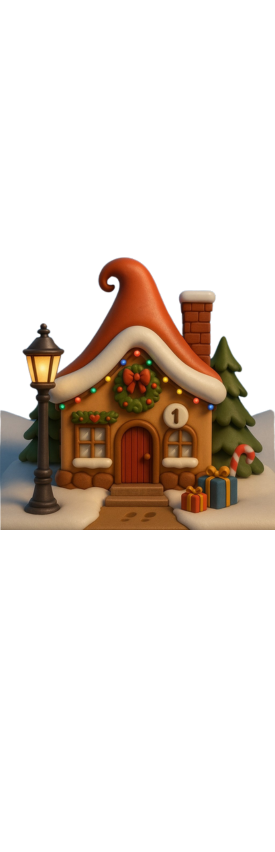
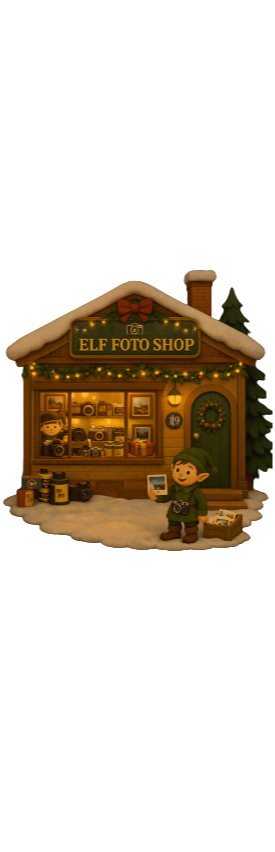
day20

Changed region(s): [[0.0, 0.2746, 1.0, 0.6714]]

diff --git a/tage/content/19.html b/tage/content/19.html
@@ -1,6 +1,149 @@
 <p class="question">
-  Im Tourismusbüro des Weihnachtsdorfes ging folgende Nachricht des Hackers ein.
+  Wichtelin Hermine war im Urlaub auf dem Weihnachtsmarkt und hat
+  mit ihrer Einwegkamera einige tolle Biilder gemacht.<br>
+  <strong>Wo ist Hermine im Urlaub gewesen?</strong>
 </p>
 
-<button class="solution-button" onclick="rightSolution(19)">Lösung!</button>
-<button class="solution-button" onclick="wrongSolution()">Keine Lösung!</button>
+<!-- THUMBNAILS GRID -->
+<div style="display:grid;grid-template-columns:repeat(auto-fit,minmax(90px,1fr));gap:10px;margin:12px 0 18px;">
+  <a href="#img01" style="display:block;border-radius:12px;overflow:hidden;background:rgba(255,255,255,.06);border:1px solid rgba(255,255,255,.14);box-shadow:0 6px 18px rgba(0,0,0,.18);text-decoration:none;">
+    <img src="../assets/day19/1.webp" alt="" style="width:100%;height:90px;object-fit:cover;display:block;">
+  </a>
+  <a href="#img02" style="display:block;border-radius:12px;overflow:hidden;background:rgba(255,255,255,.06);border:1px solid rgba(255,255,255,.14);box-shadow:0 6px 18px rgba(0,0,0,.18);text-decoration:none;">
+    <img src="../assets/day19/2.webp" alt="" style="width:100%;height:90px;object-fit:cover;display:block;">
+  </a>
+  <a href="#img03" style="display:block;border-radius:12px;overflow:hidden;background:rgba(255,255,255,.06);border:1px solid rgba(255,255,255,.14);box-shadow:0 6px 18px rgba(0,0,0,.18);text-decoration:none;">
+    <img src="../assets/day19/3.webp" alt="" style="width:100%;height:90px;object-fit:cover;display:block;">
+  </a>
+  <a href="#img04" style="display:block;border-radius:12px;overflow:hidden;background:rgba(255,255,255,.06);border:1px solid rgba(255,255,255,.14);box-shadow:0 6px 18px rgba(0,0,0,.18);text-decoration:none;">
+    <img src="../assets/day19/4.webp" alt="" style="width:100%;height:90px;object-fit:cover;display:block;">
+  </a>
+  <a href="#img05" style="display:block;border-radius:12px;overflow:hidden;background:rgba(255,255,255,.06);border:1px solid rgba(255,255,255,.14);box-shadow:0 6px 18px rgba(0,0,0,.18);text-decoration:none;">
+    <img src="../assets/day19/5.webp" alt="" style="width:100%;height:90px;object-fit:cover;display:block;">
+  </a>
+  <a href="#img06" style="display:block;border-radius:12px;overflow:hidden;background:rgba(255,255,255,.06);border:1px solid rgba(255,255,255,.14);box-shadow:0 6px 18px rgba(0,0,0,.18);text-decoration:none;">
+    <img src="../assets/day19/6.webp" alt="" style="width:100%;height:90px;object-fit:cover;display:block;">
+  </a>
+  <a href="#img07" style="display:block;border-radius:12px;overflow:hidden;background:rgba(255,255,255,.06);border:1px solid rgba(255,255,255,.14);box-shadow:0 6px 18px rgba(0,0,0,.18);text-decoration:none;">
+    <img src="../assets/day19/7.webp" alt="" style="width:100%;height:90px;object-fit:cover;display:block;">
+  </a>
+  <a href="#img08" style="display:block;border-radius:12px;overflow:hidden;background:rgba(255,255,255,.06);border:1px solid rgba(255,255,255,.14);box-shadow:0 6px 18px rgba(0,0,0,.18);text-decoration:none;">
+    <img src="../assets/day19/8.webp" alt="" style="width:100%;height:90px;object-fit:cover;display:block;">
+  </a>
+  <a href="#img09" style="display:block;border-radius:12px;overflow:hidden;background:rgba(255,255,255,.06);border:1px solid rgba(255,255,255,.14);box-shadow:0 6px 18px rgba(0,0,0,.18);text-decoration:none;">
+    <img src="../assets/day19/9.webp" alt="" style="width:100%;height:90px;object-fit:cover;display:block;">
+  </a>
+  <a href="#img10" style="display:block;border-radius:12px;overflow:hidden;background:rgba(255,255,255,.06);border:1px solid rgba(255,255,255,.14);box-shadow:0 6px 18px rgba(0,0,0,.18);text-decoration:none;">
+    <img src="../assets/day19/10.webp" alt="" style="width:100%;height:90px;object-fit:cover;display:block;">
+  </a>
+</div>
+
+<!-- LIGHTBOXES (CSS-only über :target) -->
+<style>
+  .lb{position:fixed;inset:0;display:none;place-items:center;background:rgba(0,0,0,.78);z-index:9999;padding:18px}
+  .lb:target{display:grid}
+</style>
+
+<div id="img01" class="lb">
+  <div style="position:relative;max-width:min(92vw,980px);max-height:82vh;width:100%;">
+    <a href="#" style="position:absolute;inset:0;display:block;"></a>
+    <img src="../assets/day19/1.webp" alt="" style="width:100%;max-height:82vh;object-fit:contain;display:block;border-radius:14px;background:#111;border:1px solid rgba(255,255,255,.18);">
+    <a href="#img12" style="position:absolute;top:50%;left:10px;transform:translateY(-50%);padding:10px 12px;border-radius:999px;background:rgba(255,255,255,.12);border:1px solid rgba(255,255,255,.22);color:#fff;text-decoration:none;font:700 18px/1 system-ui;">‹</a>
+    <a href="#img02" style="position:absolute;top:50%;right:10px;transform:translateY(-50%);padding:10px 12px;border-radius:999px;background:rgba(255,255,255,.12);border:1px solid rgba(255,255,255,.22);color:#fff;text-decoration:none;font:700 18px/1 system-ui;">›</a>
+  </div>
+</div>
+
+<div id="img02" class="lb">
+  <div style="position:relative;max-width:min(92vw,980px);max-height:82vh;width:100%;">
+    <a href="#" style="position:absolute;inset:0;display:block;"></a>
+    <img src="../assets/day19/2.webp" alt="" style="width:100%;max-height:82vh;object-fit:contain;display:block;border-radius:14px;background:#111;border:1px solid rgba(255,255,255,.18);">
+    <a href="#img01" style="position:absolute;top:50%;left:10px;transform:translateY(-50%);padding:10px 12px;border-radius:999px;background:rgba(255,255,255,.12);border:1px solid rgba(255,255,255,.22);color:#fff;text-decoration:none;font:700 18px/1 system-ui;">‹</a>
+    <a href="#img03" style="position:absolute;top:50%;right:10px;transform:translateY(-50%);padding:10px 12px;border-radius:999px;background:rgba(255,255,255,.12);border:1px solid rgba(255,255,255,.22);color:#fff;text-decoration:none;font:700 18px/1 system-ui;">›</a>
+  </div>
+</div>
+
+<div id="img03" class="lb">
+  <div style="position:relative;max-width:min(92vw,980px);max-height:82vh;width:100%;">
+    <a href="#" style="position:absolute;inset:0;display:block;"></a>
+    <img src="../assets/day19/3.webp" alt="" style="width:100%;max-height:82vh;object-fit:contain;display:block;border-radius:14px;background:#111;border:1px solid rgba(255,255,255,.18);">
+    <a href="#img02" style="position:absolute;top:50%;left:10px;transform:translateY(-50%);padding:10px 12px;border-radius:999px;background:rgba(255,255,255,.12);border:1px solid rgba(255,255,255,.22);color:#fff;text-decoration:none;font:700 18px/1 system-ui;">‹</a>
+    <a href="#img04" style="position:absolute;top:50%;right:10px;transform:translateY(-50%);padding:10px 12px;border-radius:999px;background:rgba(255,255,255,.12);border:1px solid rgba(255,255,255,.22);color:#fff;text-decoration:none;font:700 18px/1 system-ui;">›</a>
+  </div>
+</div>
+
+<div id="img04" class="lb"><div style="position:relative;max-width:min(92vw,980px);max-height:82vh;width:100%;">
+  <a href="#" style="position:absolute;inset:0;display:block;"></a>
+  <img src="../assets/day19/4.webp" alt="" style="width:100%;max-height:82vh;object-fit:contain;display:block;border-radius:14px;background:#111;border:1px solid rgba(255,255,255,.18);">
+  <a href="#img03" style="position:absolute;top:50%;left:10px;transform:translateY(-50%);padding:10px 12px;border-radius:999px;background:rgba(255,255,255,.12);border:1px solid rgba(255,255,255,.22);color:#fff;text-decoration:none;font:700 18px/1 system-ui;">‹</a>
+  <a href="#img05" style="position:absolute;top:50%;right:10px;transform:translateY(-50%);padding:10px 12px;border-radius:999px;background:rgba(255,255,255,.12);border:1px solid rgba(255,255,255,.22);color:#fff;text-decoration:none;font:700 18px/1 system-ui;">›</a>
+</div></div>
+
+<div id="img05" class="lb"><div style="position:relative;max-width:min(92vw,980px);max-height:82vh;width:100%;">
+  <a href="#" style="position:absolute;inset:0;display:block;"></a>
+  <img src="../assets/day19/5.webp" alt="" style="width:100%;max-height:82vh;object-fit:contain;display:block;border-radius:14px;background:#111;border:1px solid rgba(255,255,255,.18);">
+  <a href="#img04" style="position:absolute;top:50%;left:10px;transform:translateY(-50%);padding:10px 12px;border-radius:999px;background:rgba(255,255,255,.12);border:1px solid rgba(255,255,255,.22);color:#fff;text-decoration:none;font:700 18px/1 system-ui;">‹</a>
+  <a href="#img06" style="position:absolute;top:50%;right:10px;transform:translateY(-50%);padding:10px 12px;border-radius:999px;background:rgba(255,255,255,.12);border:1px solid rgba(255,255,255,.22);color:#fff;text-decoration:none;font:700 18px/1 system-ui;">›</a>
+</div></div>
+
+<div id="img06" class="lb"><div style="position:relative;max-width:min(92vw,980px);max-height:82vh;width:100%;">
+  <a href="#" style="position:absolute;inset:0;display:block;"></a>
+  <img src="../assets/day19/6.webp" alt="" style="width:100%;max-height:82vh;object-fit:contain;display:block;border-radius:14px;background:#111;border:1px solid rgba(255,255,255,.18);">
+  <a href="#img05" style="position:absolute;top:50%;left:10px;transform:translateY(-50%);padding:10px 12px;border-radius:999px;background:rgba(255,255,255,.12);border:1px solid rgba(255,255,255,.22);color:#fff;text-decoration:none;font:700 18px/1 system-ui;">‹</a>
+  <a href="#img07" style="position:absolute;top:50%;right:10px;transform:translateY(-50%);padding:10px 12px;border-radius:999px;background:rgba(255,255,255,.12);border:1px solid rgba(255,255,255,.22);color:#fff;text-decoration:none;font:700 18px/1 system-ui;">›</a>
+</div></div>
+
+<div id="img07" class="lb"><div style="position:relative;max-width:min(92vw,980px);max-height:82vh;width:100%;">
+  <a href="#" style="position:absolute;inset:0;display:block;"></a>
+  <img src="../assets/day19/7.webp" alt="" style="width:100%;max-height:82vh;object-fit:contain;display:block;border-radius:14px;background:#111;border:1px solid rgba(255,255,255,.18);">
+  <a href="#img06" style="position:absolute;top:50%;left:10px;transform:translateY(-50%);padding:10px 12px;border-radius:999px;background:rgba(255,255,255,.12);border:1px solid rgba(255,255,255,.22);color:#fff;text-decoration:none;font:700 18px/1 system-ui;">‹</a>
+  <a href="#img08" style="position:absolute;top:50%;right:10px;transform:translateY(-50%);padding:10px 12px;border-radius:999px;background:rgba(255,255,255,.12);border:1px solid rgba(255,255,255,.22);color:#fff;text-decoration:none;font:700 18px/1 system-ui;">›</a>
+</div></div>
+
+<div id="img08" class="lb"><div style="position:relative;max-width:min(92vw,980px);max-height:82vh;width:100%;">
+  <a href="#" style="position:absolute;inset:0;display:block;"></a>
+  <img src="../assets/day19/8.webp" alt="" style="width:100%;max-height:82vh;object-fit:contain;display:block;border-radius:14px;background:#111;border:1px solid rgba(255,255,255,.18);">
+  <a href="#img07" style="position:absolute;top:50%;left:10px;transform:translateY(-50%);padding:10px 12px;border-radius:999px;background:rgba(255,255,255,.12);border:1px solid rgba(255,255,255,.22);color:#fff;text-decoration:none;font:700 18px/1 system-ui;">‹</a>
+  <a href="#img09" style="position:absolute;top:50%;right:10px;transform:translateY(-50%);padding:10px 12px;border-radius:999px;background:rgba(255,255,255,.12);border:1px solid rgba(255,255,255,.22);color:#fff;text-decoration:none;font:700 18px/1 system-ui;">›</a>
+</div></div>
+
+<div id="img09" class="lb"><div style="position:relative;max-width:min(92vw,980px);max-height:82vh;width:100%;">
+  <a href="#" style="position:absolute;inset:0;display:block;"></a>
+  <img src="../assets/day19/9.webp" alt="" style="width:100%;max-height:82vh;object-fit:contain;display:block;border-radius:14px;background:#111;border:1px solid rgba(255,255,255,.18);">
+  <a href="#img08" style="position:absolute;top:50%;left:10px;transform:translateY(-50%);padding:10px 12px;border-radius:999px;background:rgba(255,255,255,.12);border:1px solid rgba(255,255,255,.22);color:#fff;text-decoration:none;font:700 18px/1 system-ui;">‹</a>
+  <a href="#img10" style="position:absolute;top:50%;right:10px;transform:translateY(-50%);padding:10px 12px;border-radius:999px;background:rgba(255,255,255,.12);border:1px solid rgba(255,255,255,.22);color:#fff;text-decoration:none;font:700 18px/1 system-ui;">›</a>
+</div></div>
+
+<div id="img10" class="lb"><div style="position:relative;max-width:min(92vw,980px);max-height:82vh;width:100%;">
+  <a href="#" style="position:absolute;inset:0;display:block;"></a>
+  <img src="../assets/day19/10.webp" alt="" style="width:100%;max-height:82vh;object-fit:contain;display:block;border-radius:14px;background:#111;border:1px solid rgba(255,255,255,.18);">
+  <a href="#img09" style="position:absolute;top:50%;left:10px;transform:translateY(-50%);padding:10px 12px;border-radius:999px;background:rgba(255,255,255,.12);border:1px solid rgba(255,255,255,.22);color:#fff;text-decoration:none;font:700 18px/1 system-ui;">‹</a>
+  <a href="#img011" style="position:absolute;top:50%;right:10px;transform:translateY(-50%);padding:10px 12px;border-radius:999px;background:rgba(255,255,255,.12);border:1px solid rgba(255,255,255,.22);color:#fff;text-decoration:none;font:700 18px/1 system-ui;">›</a>
+</div></div>
+
+<div class="fill-btn">
+  Chicago
+  <button onclick="wrongSolution()" class="small-btn">
+    Wählen <strong>1 <img class="mini-img" src="../assets/coin.png"></strong>
+  </button>
+</div>
+
+<div class="fill-btn">
+  Amsterdam
+  <button onclick="wrongSolution()" class="small-btn">
+    Wählen <strong>1 <img class="mini-img" src="../assets/coin.png"></strong>
+  </button>
+</div>
+
+<div class="fill-btn">
+  Kopenhagen
+  <button onclick="rightSolution(19)" class="small-btn">
+    Wählen <strong>1 <img class="mini-img" src="../assets/coin.png"></strong>
+  </button>
+</div>
+
+<div class="fill-btn">
+  Berlin
+  <button onclick="wrongSolution()" class="small-btn">
+    Wählen <strong>1 <img class="mini-img" src="../assets/coin.png"></strong>
+  </button>
+</div>
